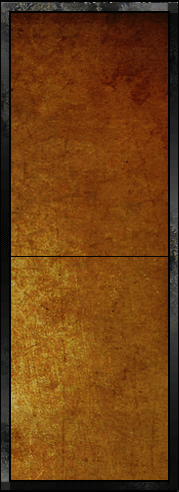
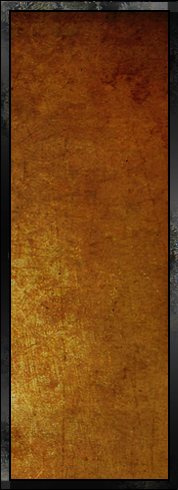
chore(design): Change buttons position into pop-up and cards container. Change of background images for Timer and Infos blocks. Change font and color for Timer.

diff --git a/style/game/play.css b/style/game/play.css
@@ -223,12 +223,12 @@
 		padding-bottom: 2%;
 		margin: auto;
 		text-align: center;
-		max-height: 360px;
-        min-height: 360px;
+		max-height: 380px;
+        min-height: 380px;
 	}
     #cards-container {
-        max-height: 120px;
-        min-height: 120px;
+        max-height: 140px;
+        min-height: 140px;
     }
 
     #cards-img-container {
@@ -236,8 +236,8 @@
         float: left;
         width: 70%;
         overflow: hidden;
-		max-height: 110px;
-        min-height: 110px;
+		max-height: 130px;
+        min-height: 130px;
     }
 
     .card {
@@ -255,20 +255,20 @@
     }
 
     #cards-actions button {
-        width: 48%;
+        width: 45%;	
     }
 
     .play-left {
-        max-height: 548px;
-        min-height: 548px;
+        max-height: 588px;
+        min-height: 588px;
     }
 
     #trumps-container {
-        height: 548px;
+        height: 588px;
     }
 
     #gauge svg {
-        max-height: 470px;
+        max-height: 490px;
         margin-top: 10px;
     }
 
@@ -292,8 +292,8 @@
     }
 
     #notifications {
-        max-height: 363px;
-        min-height: 363px;
+        max-height: 383px;
+        min-height: 383px;
     }
 
     #notifications img {
@@ -301,7 +301,7 @@
     }
 
     #counter, #counter-countainer {
-        height: 145px;
+        height: 165px;
     }
 }
 

diff --git a/app/game/play/widgets/counter.js b/app/game/play/widgets/counter.js
@@ -64,12 +64,12 @@ export class AotCounterCustomElement {
             // Clear canvas before re-drawing
             ctx.clearRect(0, 0, 300, 300);
 
-            // Grey background ring
+            // Black background ring
             ctx.beginPath();
             ctx.globalAlpha = 1;
             ctx.arc(150, 150, 140, 0, 6.283, false);
             ctx.arc(150, 150, 105, 6.283, Math.PI * 2, true);
-            ctx.fillStyle = '#bbb';
+            ctx.fillStyle = '#000000';
             ctx.fill();
             ctx.closePath();
 

diff --git a/app/game/play/widgets/counter.html b/app/game/play/widgets/counter.html
@@ -2,9 +2,9 @@
     <div id="counter-countainer">
         <canvas id="counter"
             class="centered-block ${displayCounter ? '' : 'hidden'}"
-            width="300"
-            height="300"></canvas>
-        <p id="timer" class="centered-block ${displayCounter ? '' : 'hidden'}">
+            width="350"
+            height="350"></canvas>
+        <p id="timer" class="centered-text-timer ${displayCounter ? '' : 'hidden'}">
             ${formatedTimeLeft}
         </p>
     </div>

diff --git a/style/game/counter.css b/style/game/counter.css
@@ -6,18 +6,18 @@
 
 #counter {
     position: relative;
+	opacity: 0.8;
+	padding-top: 10px;
+	padding-left: 25px;
     z-index: 1;
 }
 
 #timer {
-    position: absolute;
-    top: 0;
-    left: 0;
-    font-size: 520%;
-    text-align: center;
-    width: 300px;
+    position: relative;
+    font-size: 500%;
     z-index: 2;
-    margin: 0;
+    padding-top: auto;
+	margin: auto;
     color: #000;
     transition: opacity 350ms linear 0s;
     -webkit-transition: opacity 350ms linear 0s;

diff --git a/style/global.css b/style/global.css
@@ -83,11 +83,9 @@ button[disabled] {
     text-align: center;
 }
 
-
 .centered-important strong {
     color: maroon;
 }
-
 
 .centered-block {
     display: block;
@@ -102,6 +100,12 @@ button[disabled] {
 
 .centered-text {
     text-align: center;
+}
+
+.centered-text-timer {
+	text-align: center;
+	top: -150px;
+	font-family: 'Old English Text MT';
 }
 
 .white-text{
@@ -167,6 +171,7 @@ button[disabled] {
 
 .popup-content button {
     margin-top: 1em;
+	margin-left: 16%;
 }
 
 
